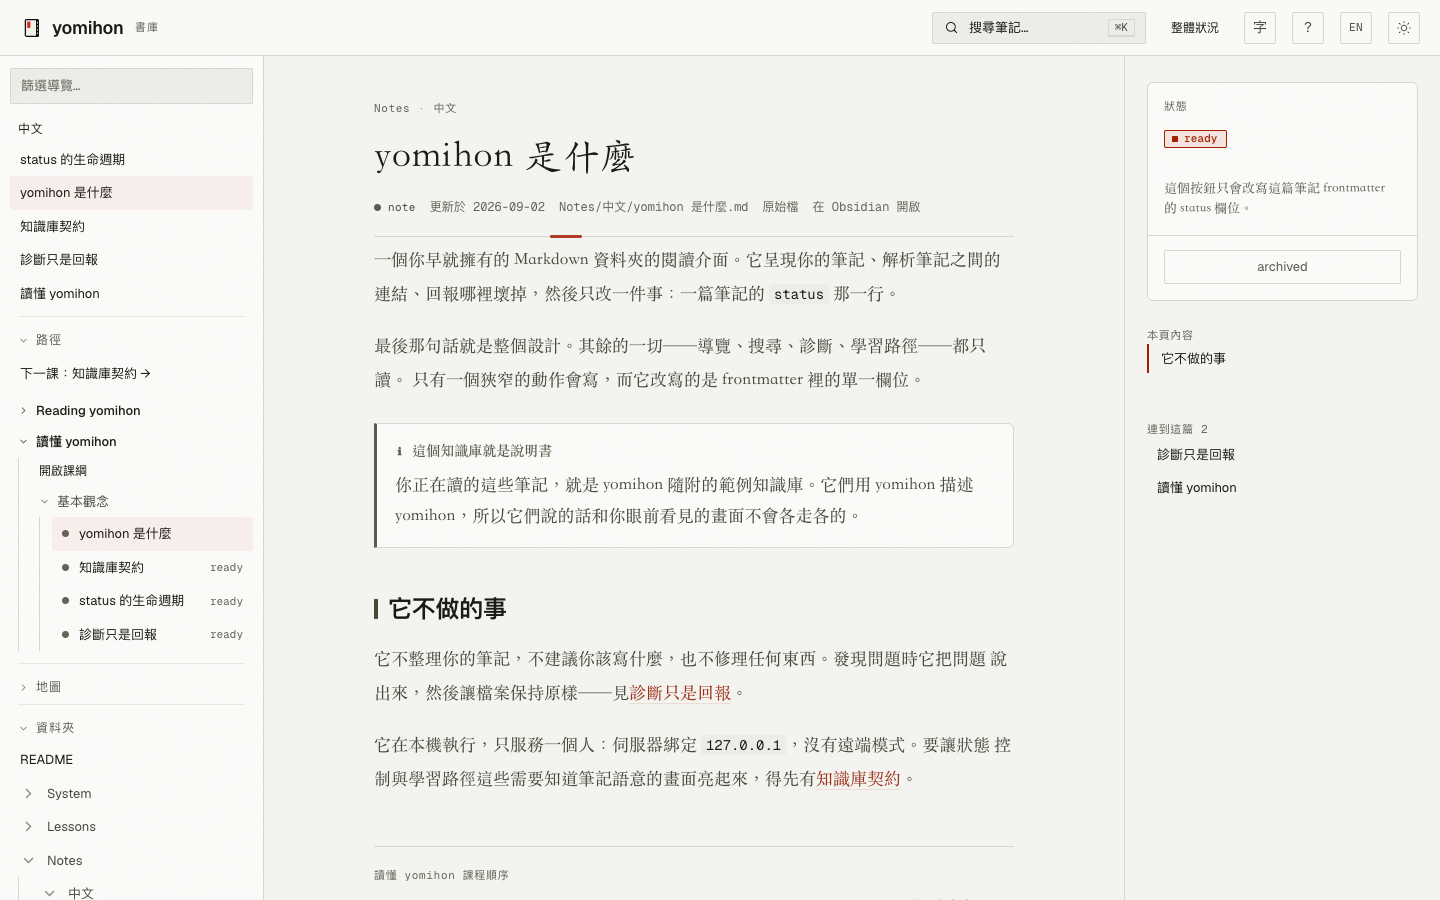
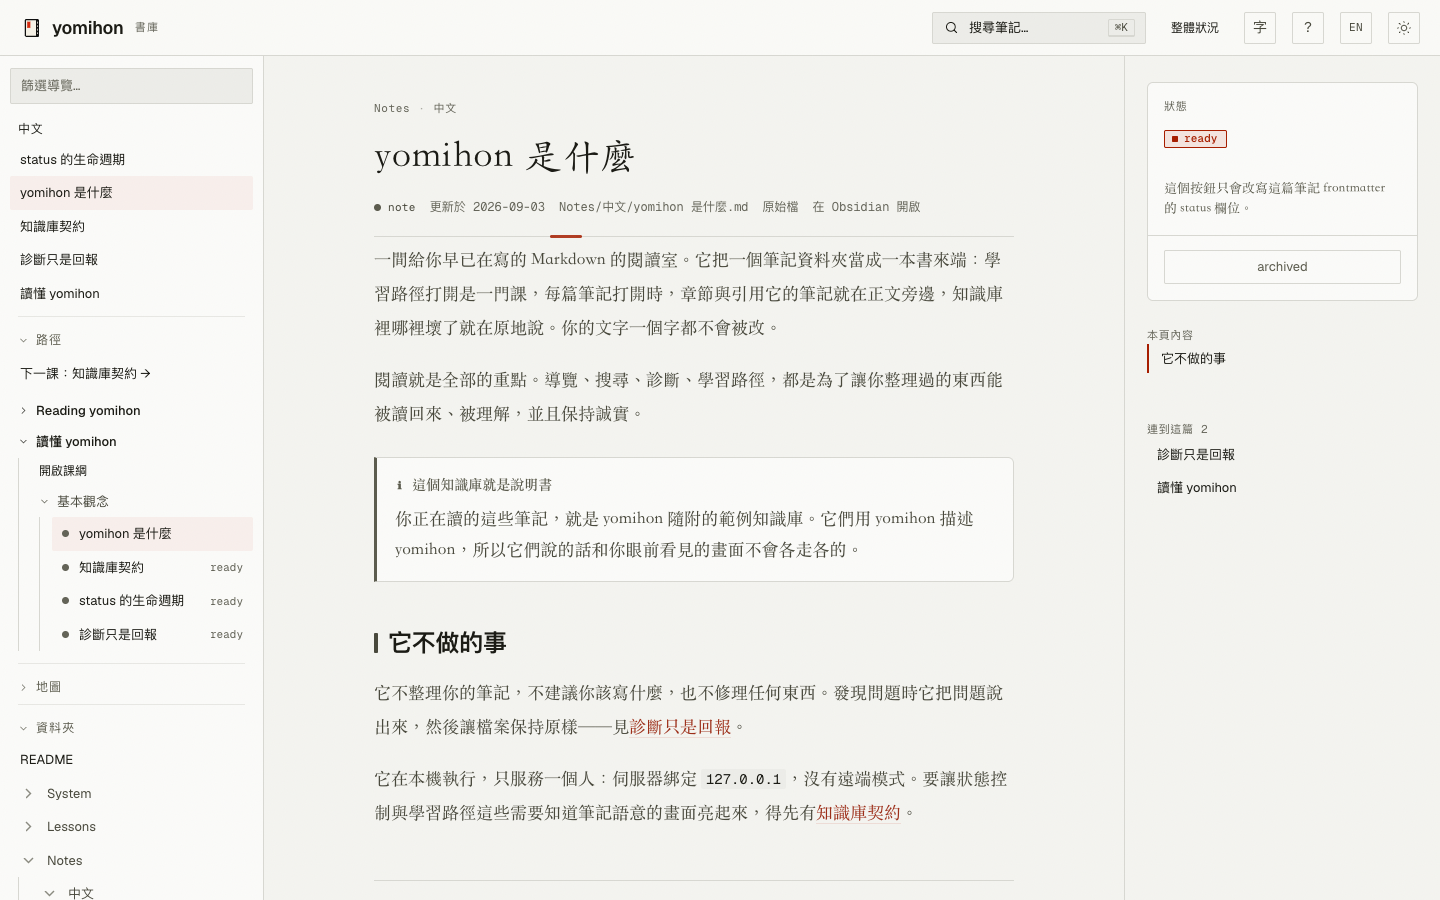
docs: say what yomihon is for before saying what it does not touch
The README and the note it pictures led with the narrowest fact about
the product: that it writes one frontmatter field. That is a boundary,
not a reason to run it. Both READMEs now open on the reason — a folder
of organised Markdown read back as one book: courses with chapters and
a place marker, sections and citations beside the text, and a
collection kept honest by saying what is broken where it happens. The
write is no longer listed; the trust line says only that nothing leaves
the machine and no prose is edited.

The two pictured notes carry the same opening, so the screenshots say
what the READMEs say. The Traditional Chinese note and README are set
one paragraph per line: a line break inside a CJK sentence renders as a
visible space, which the previous picture showed.

`yomihon check --root examples/vault --format json` is byte-identical
before and after; both pictures are regenerated with `make screenshots`.

Changed region(s): [[0.25, 0.28, 0.6875, 0.6222], [0.25, 0.6533, 0.7188, 0.9333], [0.25, 0.9644, 0.3438, 0.9956]]

diff --git a/README.zh-TW.md b/README.zh-TW.md
@@ -5,9 +5,11 @@
 [![CI](https://github.com/koopa0/yomihon/actions/workflows/ci.yml/badge.svg)](https://github.com/koopa0/yomihon/actions/workflows/ci.yml)
 [![授權條款：MIT](https://img.shields.io/badge/license-MIT-blue?style=flat)](LICENSE)
 
-**一間放在本機的 Markdown 筆記閱讀室。**
+**把你整理好的 Markdown，變成一本好讀的書。**
 
-[![yomihon 以繁體中文閱讀範例知識庫的一篇筆記：左側是導覽與學習路徑，中間是文章，右側是這篇筆記的狀態、章節，以及連到它的筆記](.github/media/reading-zh-TW.png)](.github/media/reading-zh-TW.png)
+[![yomihon 正在讀範例知識庫裡一門課的第一章：左側是課程與你讀到的位置，中間是為長篇閱讀排版的正文，右側是本頁的章節與引用這篇的筆記](.github/media/reading-zh-TW.png)](.github/media/reading-zh-TW.png)
+
+筆記在資料夾裡累積；理解發生在把它們讀回來的時候。yomihon 把一個 Markdown 資料夾當成一本書來端：學習路徑打開是一門課，有章節、有你讀到哪；一篇筆記打開時，章節與引用它的筆記就在正文旁邊；知識庫裡哪裡壞了，就在壞掉的地方說。它在你的機器上執行，筆記在哪裡就在哪裡讀。
 
 ## 安裝
 
@@ -23,25 +25,21 @@ go install github.com/koopa0/yomihon/cmd/yomihon@latest
 yomihon serve ~/notes
 ```
 
-接著開啟 <http://127.0.0.1:9610>。任何資料夾都能照原樣讀；
-`yomihon serve examples/vault` 可以看見加上知識庫契約之後多了什麼。
+接著開啟 <http://127.0.0.1:9610>。任何資料夾都能照原樣讀；`yomihon serve examples/vault` 可以看見加上知識庫契約之後多了什麼。
 
 ## 它做什麼
 
-- 把一個 Markdown 資料夾當成一本書來讀：wikilink、callout、ruby、Mermaid、
-  註腳、表格與有語法標示的程式碼。
-- 把學習路徑變成課程——課數、上一課與下一課，以及你讀到哪裡（[怎麼寫](AUTHORING.md)）。
-- 反向連結、本頁章節與關鍵字搜尋都留在正文旁邊。
-- 回報壞掉的地方——無效的 frontmatter、連不到目標的連結、兩個檔案同時應答的
-  同一個名字——而且從不動手修。
-- 介面說英文或繁體中文；你的筆記保留書寫時使用的語言。
-- 只寫一個欄位 `status`，並且沿著你的知識庫宣告的轉換走（Windows 以外的
-  平台）。除此之外不寫任何東西，也不送出任何東西：完全不發網路請求。
+- **讀。** wikilink、callout、註腳、表格、Mermaid、有語法標示的程式碼與 ruby，都照作者的意思呈現。版面為長篇閱讀而設，中日文優先，有亮與暗兩種桌面、三段字級。
+- **學。** 學習路徑變成課程：課數、上一課與下一課、你在哪裡。振假名可開可關；標了朗讀的段落用它自己的語言唸出來（[怎麼寫一條學習路徑](AUTHORING.md)）。
+- **找。** 關鍵字搜尋，可按資料夾篩選，零筆時給你退一步的建議；反向連結與本頁章節留在正文旁邊。
+- **讓知識庫誠實。** 一頁健康狀況列出連不到目標的連結、沒有人引用的筆記、兩個檔案同時應答的名字；每篇筆記帶著自己的診斷；同一套檢查在命令列是 `yomihon check`。它不替你修任何東西——檔案由你改。
+- **報告。** 放在知識庫裡的 HTML 報告，在同一間閱讀室裡打開，隔離執行。
+- **兩種語言。** 介面說英文或繁體中文；每篇筆記保留書寫時使用的語言。
+- **你的。** 只綁 `127.0.0.1`，永遠不發網路請求，也不動你的文字。
 
 ## 目前狀態
 
-仍在積極開發中；第一個穩定版本推出前，產品與介面仍可能有明顯變動。缺陷請開
-[Issues](https://github.com/koopa0/yomihon/issues)，安全性問題請走
+仍在積極開發中；第一個穩定版本推出前，產品與介面仍可能有明顯變動。缺陷請開 [Issues](https://github.com/koopa0/yomihon/issues)，安全性問題請走
 [GitHub 私密漏洞回報](https://github.com/koopa0/yomihon/security/advisories/new)。
 
 ## 授權

diff --git a/README.md b/README.md
@@ -5,9 +5,16 @@ English | [繁體中文](README.zh-TW.md)
 [![CI](https://github.com/koopa0/yomihon/actions/workflows/ci.yml/badge.svg)](https://github.com/koopa0/yomihon/actions/workflows/ci.yml)
 [![License: MIT](https://img.shields.io/badge/license-MIT-blue?style=flat)](LICENSE)
 
-**A local reading room for your Markdown notes.**
+**Turn the Markdown you have already organised into a book worth reading.**
 
-[![yomihon reading a note from the example vault: navigation and a study path on the left, the article in the centre, and on the right the note's status, its sections, and what cites it](.github/media/reading-en.png)](.github/media/reading-en.png)
+[![yomihon reading the first chapter of a course from the example vault: the course and where you are in it on the left, the article set for long-form reading in the centre, and on the right its sections and the notes that cite it](.github/media/reading-en.png)](.github/media/reading-en.png)
+
+Notes accumulate in folders; understanding happens when they are read back.
+yomihon serves a folder of Markdown as one book. A study path opens as a
+course with chapters and a marker for where you are; a note opens with its
+sections and everything that cites it beside the text; whatever is broken in
+the collection is said where it happens. It runs on your machine and reads the
+notes where they already are.
 
 ## Install
 
@@ -28,18 +35,25 @@ Then open <http://127.0.0.1:9610>. Any folder works as it is;
 
 ## What it does
 
-- Reads a folder of Markdown as one book: wikilinks, callouts, ruby, Mermaid,
-  footnotes, tables, and highlighted code.
-- Turns a study path into a course — counts, prev and next, and where you are
-  in it ([how to write one](AUTHORING.md)).
-- Keeps backlinks, the note's own sections, and lexical search beside the text.
-- Reports what is broken — invalid frontmatter, links with no target, one name
-  two files both answer to — and never repairs it.
-- Speaks English or Traditional Chinese; your notes keep the language they were
-  written in.
-- Writes one field, `status`, following the transitions your vault declares
-  (everywhere but Windows). Nothing else is written, and nothing is sent
-  anywhere: no network call, ever.
+- **Read.** Wikilinks, callouts, footnotes, tables, Mermaid, highlighted code
+  and ruby render as the author meant them. The page is set for long-form
+  reading, Chinese and Japanese first, with a light and a dark desk and three
+  text sizes.
+- **Learn.** A study path becomes a course: chapter counts, previous and next,
+  and where you are. Furigana switches on and off; a passage marked for reading
+  aloud is spoken in its own language ([how to write a path](AUTHORING.md)).
+- **Find.** Lexical search with folder filters and a way back from zero
+  results; backlinks and the note's own sections stay beside the text.
+- **Keep the collection honest.** A health page lists links with no target,
+  notes nothing cites, and one name two files answer to; each note carries its
+  own diagnostics; the same checks run as `yomihon check` on the command line.
+  Nothing is repaired for you — you edit the file.
+- **Reports.** HTML briefings kept in the vault open inside the same room,
+  sandboxed.
+- **Two languages.** The interface speaks English or Traditional Chinese; every
+  note keeps the language it was written in.
+- **Yours.** It binds to `127.0.0.1` only, never makes a network call, and
+  never edits your prose.
 
 ## Status
 

diff --git a/examples/vault/Notes/中文/yomihon 是什麼.md b/examples/vault/Notes/中文/yomihon 是什麼.md
@@ -3,15 +3,13 @@ title: yomihon 是什麼
 type: note
 status: ready
 created: 2026-01-04
-updated: 2026-09-02
+updated: 2026-09-03
 lang: zh-Hant
 ---
 
-一個你早就擁有的 Markdown 資料夾的閱讀介面。它呈現你的筆記、解析筆記之間的
-連結、回報哪裡壞掉，然後只改一件事：一篇筆記的 `status` 那一行。
+一間給你早已在寫的 Markdown 的閱讀室。它把一個筆記資料夾當成一本書來端：學習路徑打開是一門課，每篇筆記打開時，章節與引用它的筆記就在正文旁邊，知識庫裡哪裡壞了就在原地說。你的文字一個字都不會被改。
 
-最後那句話就是整個設計。其餘的一切——導覽、搜尋、診斷、學習路徑——都只讀。
-只有一個狹窄的動作會寫，而它改寫的是 frontmatter 裡的單一欄位。
+閱讀就是全部的重點。導覽、搜尋、診斷、學習路徑，都是為了讓你整理過的東西能被讀回來、被理解，並且保持誠實。
 
 > [!note] 這個知識庫就是說明書
 > 你正在讀的這些筆記，就是 yomihon 隨附的範例知識庫。它們用 yomihon 描述
@@ -19,8 +17,6 @@ lang: zh-Hant
 
 ## 它不做的事
 
-它不整理你的筆記，不建議你該寫什麼，也不修理任何東西。發現問題時它把問題
-說出來，然後讓檔案保持原樣——見[[診斷只是回報]]。
+它不整理你的筆記，不建議你該寫什麼，也不修理任何東西。發現問題時它把問題說出來，然後讓檔案保持原樣——見[[診斷只是回報]]。
 
-它在本機執行，只服務一個人：伺服器綁定 `127.0.0.1`，沒有遠端模式。要讓狀態
-控制與學習路徑這些需要知道筆記語意的畫面亮起來，得先有[[知識庫契約]]。
+它在本機執行，只服務一個人：伺服器綁定 `127.0.0.1`，沒有遠端模式。要讓狀態控制與學習路徑這些需要知道筆記語意的畫面亮起來，得先有[[知識庫契約]]。

diff --git a/examples/vault/Notes/What yomihon is.md b/examples/vault/Notes/What yomihon is.md
@@ -3,17 +3,18 @@ title: What yomihon is
 type: note
 status: ready
 created: 2026-01-04
-updated: 2026-08-30
+updated: 2026-09-03
 lang: en
 ---
 
-A reading surface for a folder of Markdown you already own. It renders your
-notes, resolves the links between them, reports what is broken, and changes
-exactly one thing: a note's `status` line.
+A reading room for the Markdown you already keep. It serves a folder of notes
+as one book: a study path opens as a course, every note opens with its sections
+and the notes that cite it beside the text, and whatever is broken in the
+collection is said in place. None of your prose is changed.
 
-That last sentence is the whole design. Everything else here — the navigation,
-the search, the diagnostics, the study paths — reads. One narrow act writes,
-and it rewrites a single frontmatter field in place.
+Reading is the whole point. The navigation, the search, the diagnostics, the
+study paths — all of it exists so that a collection you organised can be read
+back, understood, and kept honest.
 
 > [!note] This vault is the documentation
 > The notes you are reading are the example vault that ships with yomihon.
